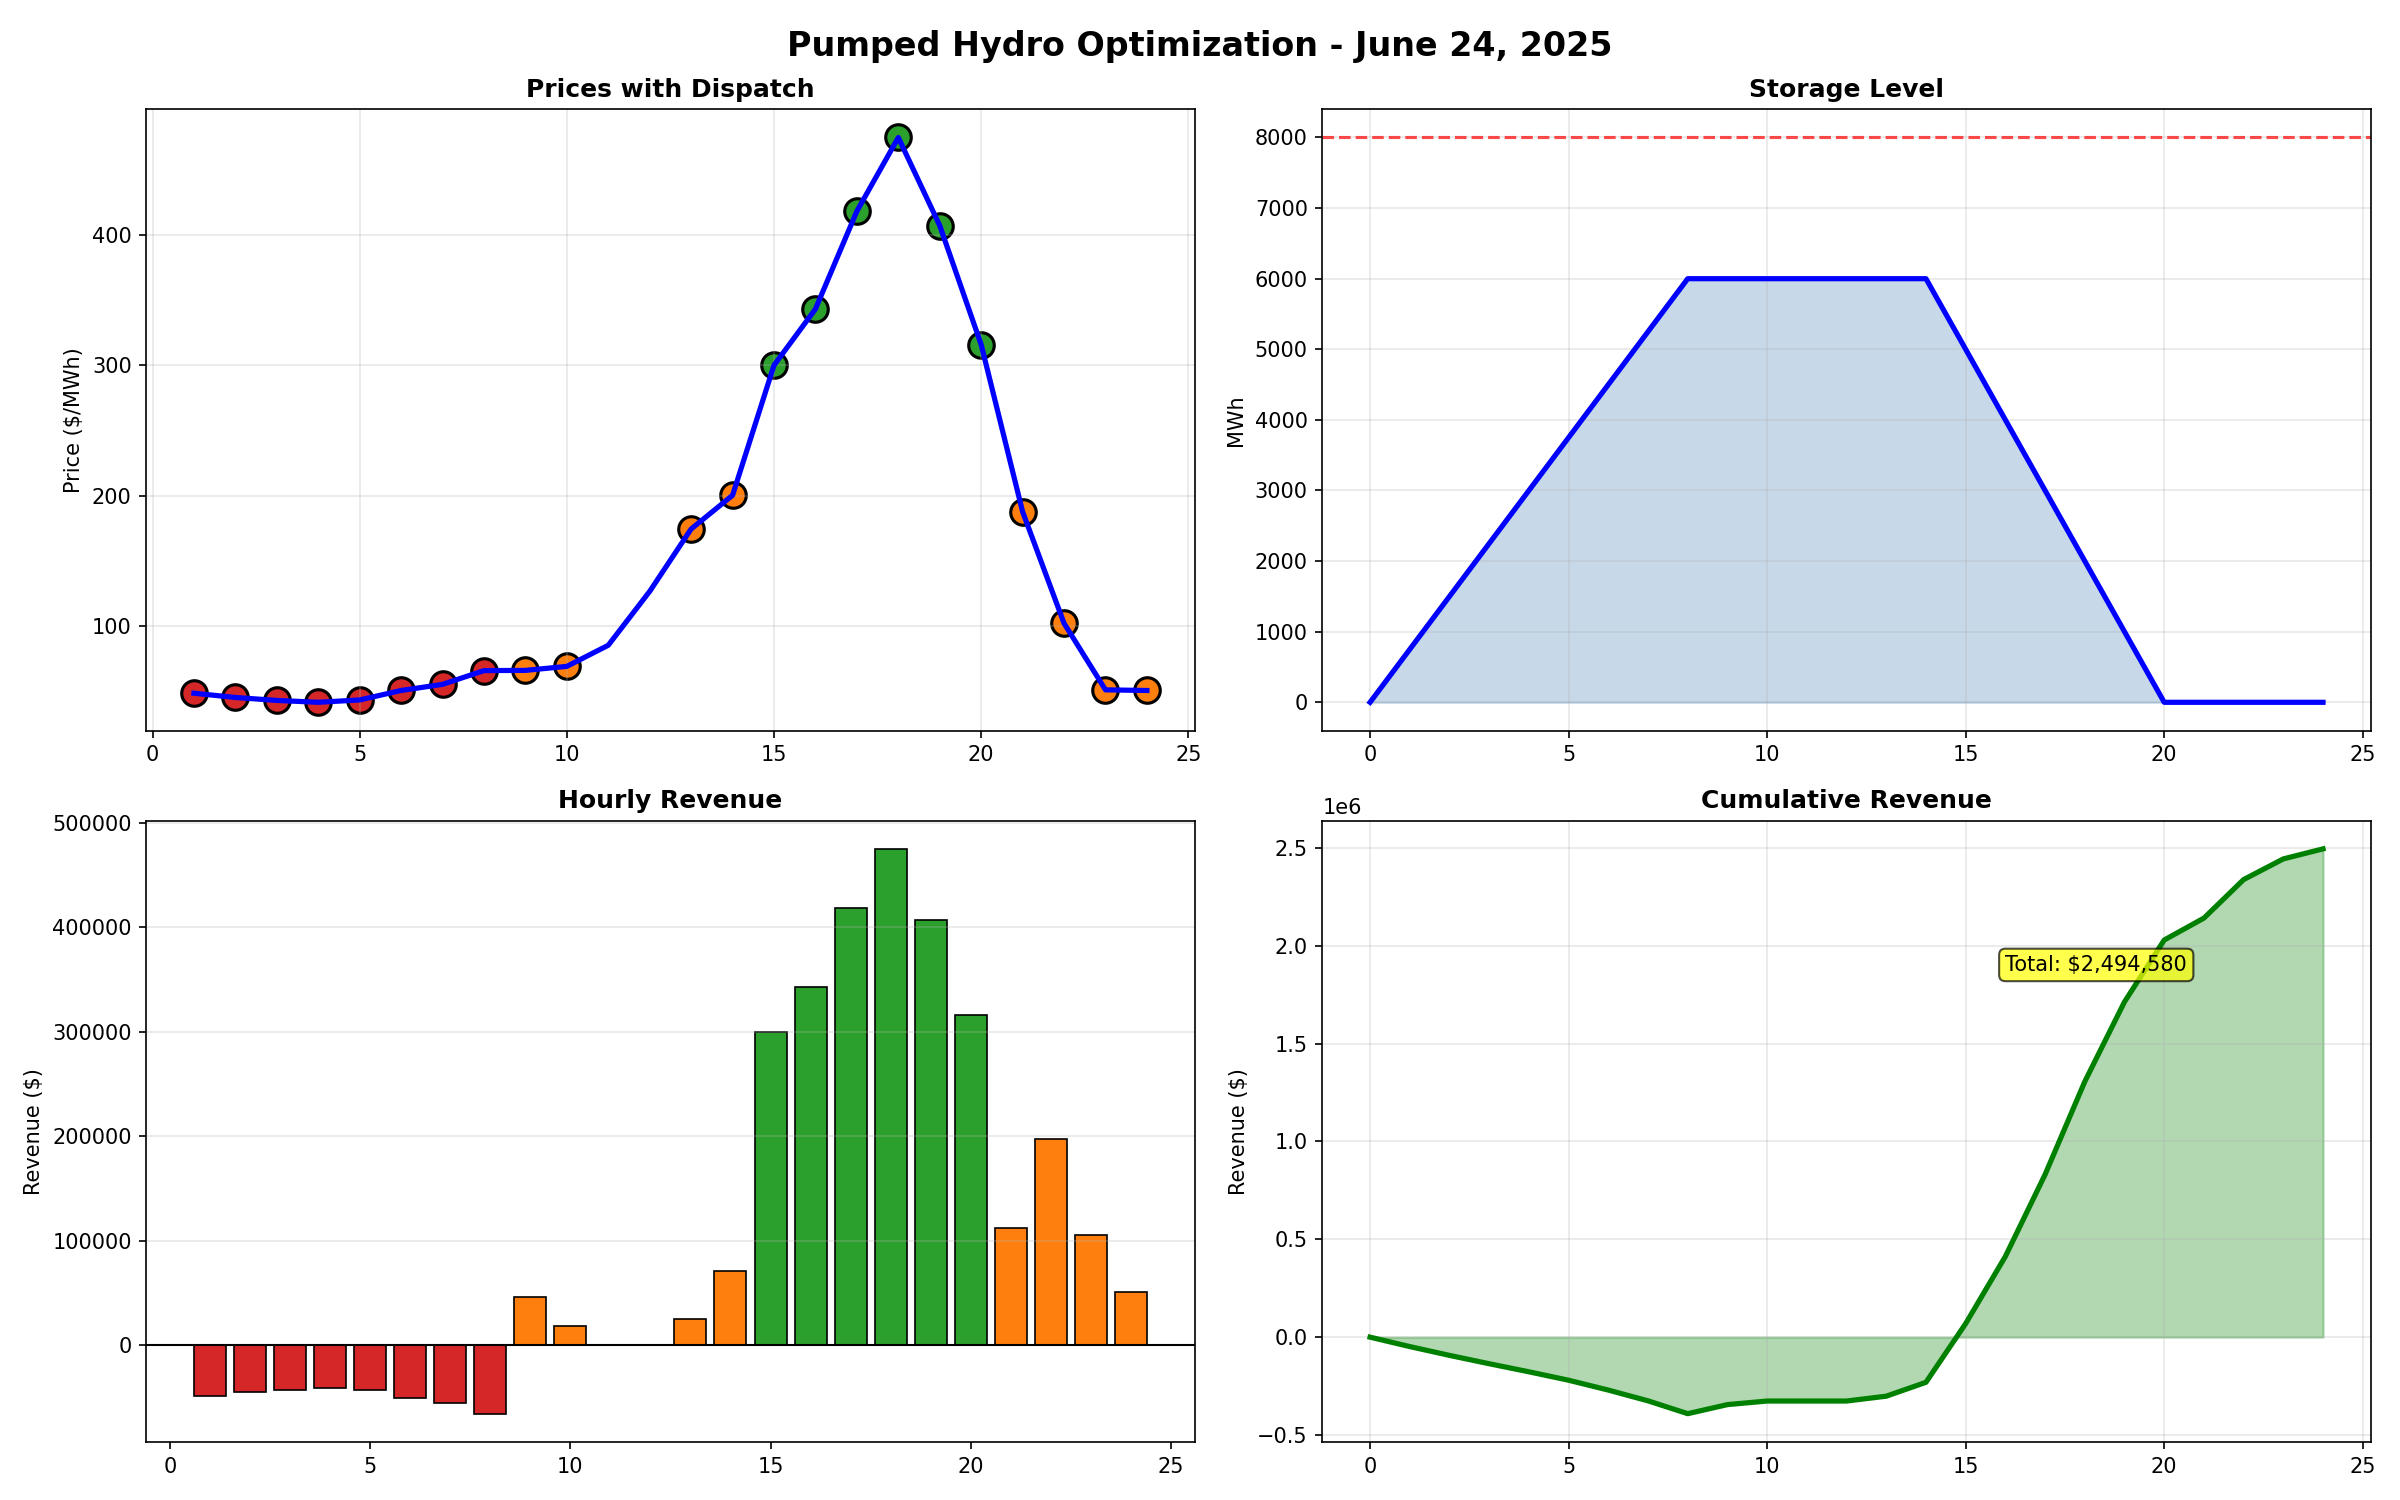
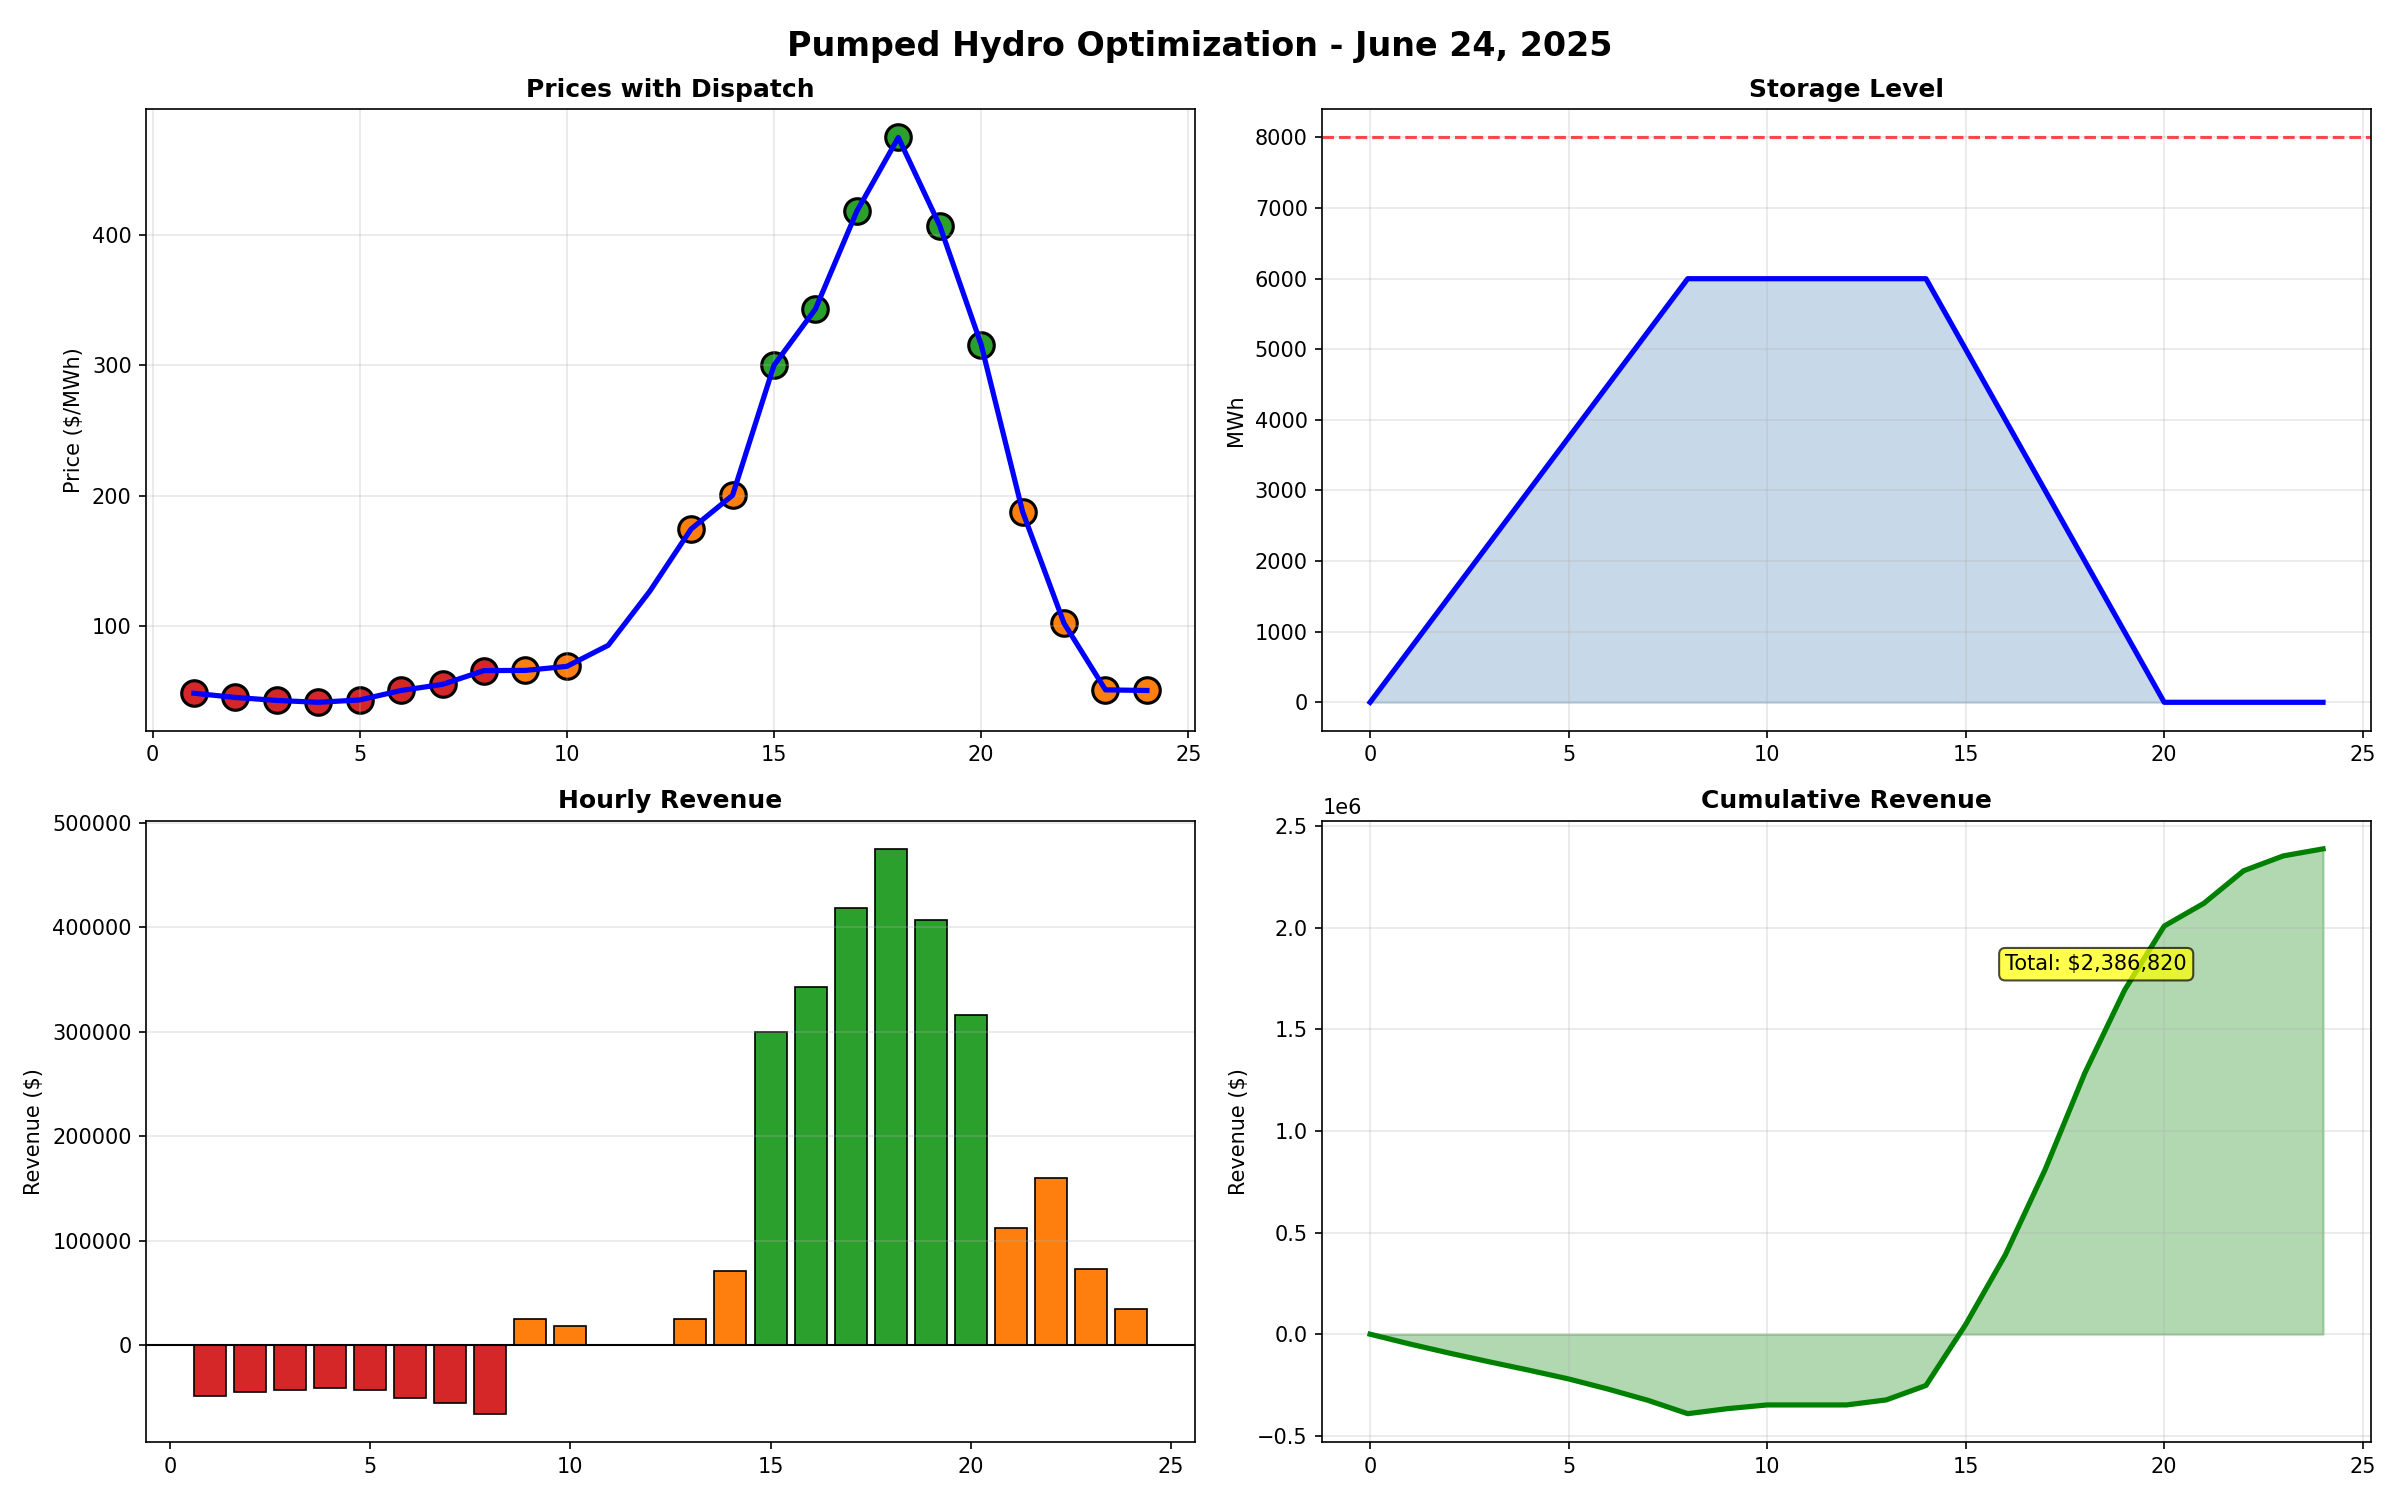
FirstLight pumped hydro optimization - Corrected TMNSR formula. Optimal revenue ,386,820 (energy ,869K + TMNSR 18K). June 24, 2025 ISO-NE.

diff --git a/step2_optimization.py b/step2_optimization.py
@@ -1,10 +1,3 @@
-"""
-Pumped Hydro Optimization - Dynamic Programming
-June 24, 2025 | 1000 MW, 8000 MWh, 75% efficiency
-
-Storage is tracked in deliverable MWh. Pumping adds 750 MWh and 
-generation removes 1,000 MWh, reflecting 75% round-trip efficiency.
-"""
 import pandas as pd
 from functools import lru_cache
 from config import ASSET
@@ -16,14 +9,13 @@ MW = ASSET["capacity_mw"]
 EFF = ASSET["round_trip_efficiency"]
 MAX_STORAGE = ASSET["storage_capacity_mwh"]
 
-PUMP_ADDITION = MW * EFF          # 750 MWh added to storage
-GEN_REQUIREMENT = MW              # 1000 MWh removed from storage
+PUMP_ADDITION = MW * EFF
+GEN_REQUIREMENT = MW
 
 print("\n" + "="*80)
 print("PUMPED HYDRO OPTIMIZATION - DYNAMIC PROGRAMMING")
 print("="*80)
 
-# Validate data
 required_cols = ['da_lmp', 'rt_lmp', 'tmnsr_price', 'strike_price']
 if pricing[required_cols].isna().any().any():
     raise ValueError("Missing pricing data. Check pricing_data.csv.")
@@ -32,9 +24,6 @@ action_taken = {}
 
 @lru_cache(None)
 def solve(hour, storage_mwh):
-    """
-    DP: maximum revenue from hour onwards, starting with given storage.
-    """
     if hour == 24:
         return 0
 
@@ -43,45 +32,23 @@ def solve(hour, storage_mwh):
     tmnsr_price = pricing.iloc[hour]['tmnsr_price']
     strike_price = pricing.iloc[hour]['strike_price']
 
-    closeout_charge = rt_lmp - strike_price
-    net_tmnsr_price = max(tmnsr_price - closeout_charge, 0)
-    tmnsr_revenue = MW * net_tmnsr_price
+    closeout_charge = max(rt_lmp - strike_price, 0)
+    tmnsr_revenue = MW * (tmnsr_price - closeout_charge)
 
     options = []
 
-    # IDLE
-    options.append((
-        solve(hour + 1, storage_mwh),
-        'IDLE',
-        storage_mwh
-    ))
+    options.append((solve(hour + 1, storage_mwh), 'IDLE', storage_mwh))
+    options.append((tmnsr_revenue + solve(hour + 1, storage_mwh), 'TMNSR', storage_mwh))
 
-    # TMNSR
-    options.append((
-        tmnsr_revenue + solve(hour + 1, storage_mwh),
-        'TMNSR',
-        storage_mwh
-    ))
-
-    # PUMP
     if storage_mwh + PUMP_ADDITION <= MAX_STORAGE:
         pump_cost = MW * da_price
         next_storage = storage_mwh + PUMP_ADDITION
-        options.append((
-            -pump_cost + solve(hour + 1, next_storage),
-            'PUMP',
-            next_storage
-        ))
+        options.append((-pump_cost + solve(hour + 1, next_storage), 'PUMP', next_storage))
 
-    # GENERATE
     if storage_mwh >= GEN_REQUIREMENT:
         gen_revenue = MW * da_price
         next_storage = storage_mwh - GEN_REQUIREMENT
-        options.append((
-            gen_revenue + solve(hour + 1, next_storage),
-            'GENERATE',
-            next_storage
-        ))
+        options.append((gen_revenue + solve(hour + 1, next_storage), 'GENERATE', next_storage))
 
     best_revenue, best_action, best_next_storage = max(options, key=lambda x: x[0])
     action_taken[(hour, storage_mwh)] = (best_action, best_next_storage)
@@ -109,8 +76,8 @@ for hour in range(24):
     tmnsr_price = pricing.iloc[hour]['tmnsr_price']
     strike_price = pricing.iloc[hour]['strike_price']
 
-    closeout_charge = rt_lmp - strike_price
-    net_tmnsr_price = max(tmnsr_price - closeout_charge, 0)
+    closeout_charge = max(rt_lmp - strike_price, 0)
+    net_tmnsr_price = tmnsr_price - closeout_charge
 
     energy_revenue = 0
     tmnsr_revenue = 0
@@ -142,11 +109,7 @@ for hour in range(24):
         'hourly_revenue': hourly_revenue
     })
 
-    print(
-        f"Hour {hour+1:2d}: {action:8s} | "
-        f"Revenue: ${hourly_revenue:>11,.0f} | "
-        f"Storage: {starting_storage:>7.0f} → {ending_storage:>7.0f} MWh"
-    )
+    print(f"Hour {hour+1:2d}: {action:8s} | Revenue: ${hourly_revenue:>11,.0f} | Storage: {starting_storage:>7.0f} → {ending_storage:>7.0f} MWh")
 
     storage_mwh = ending_storage
 
